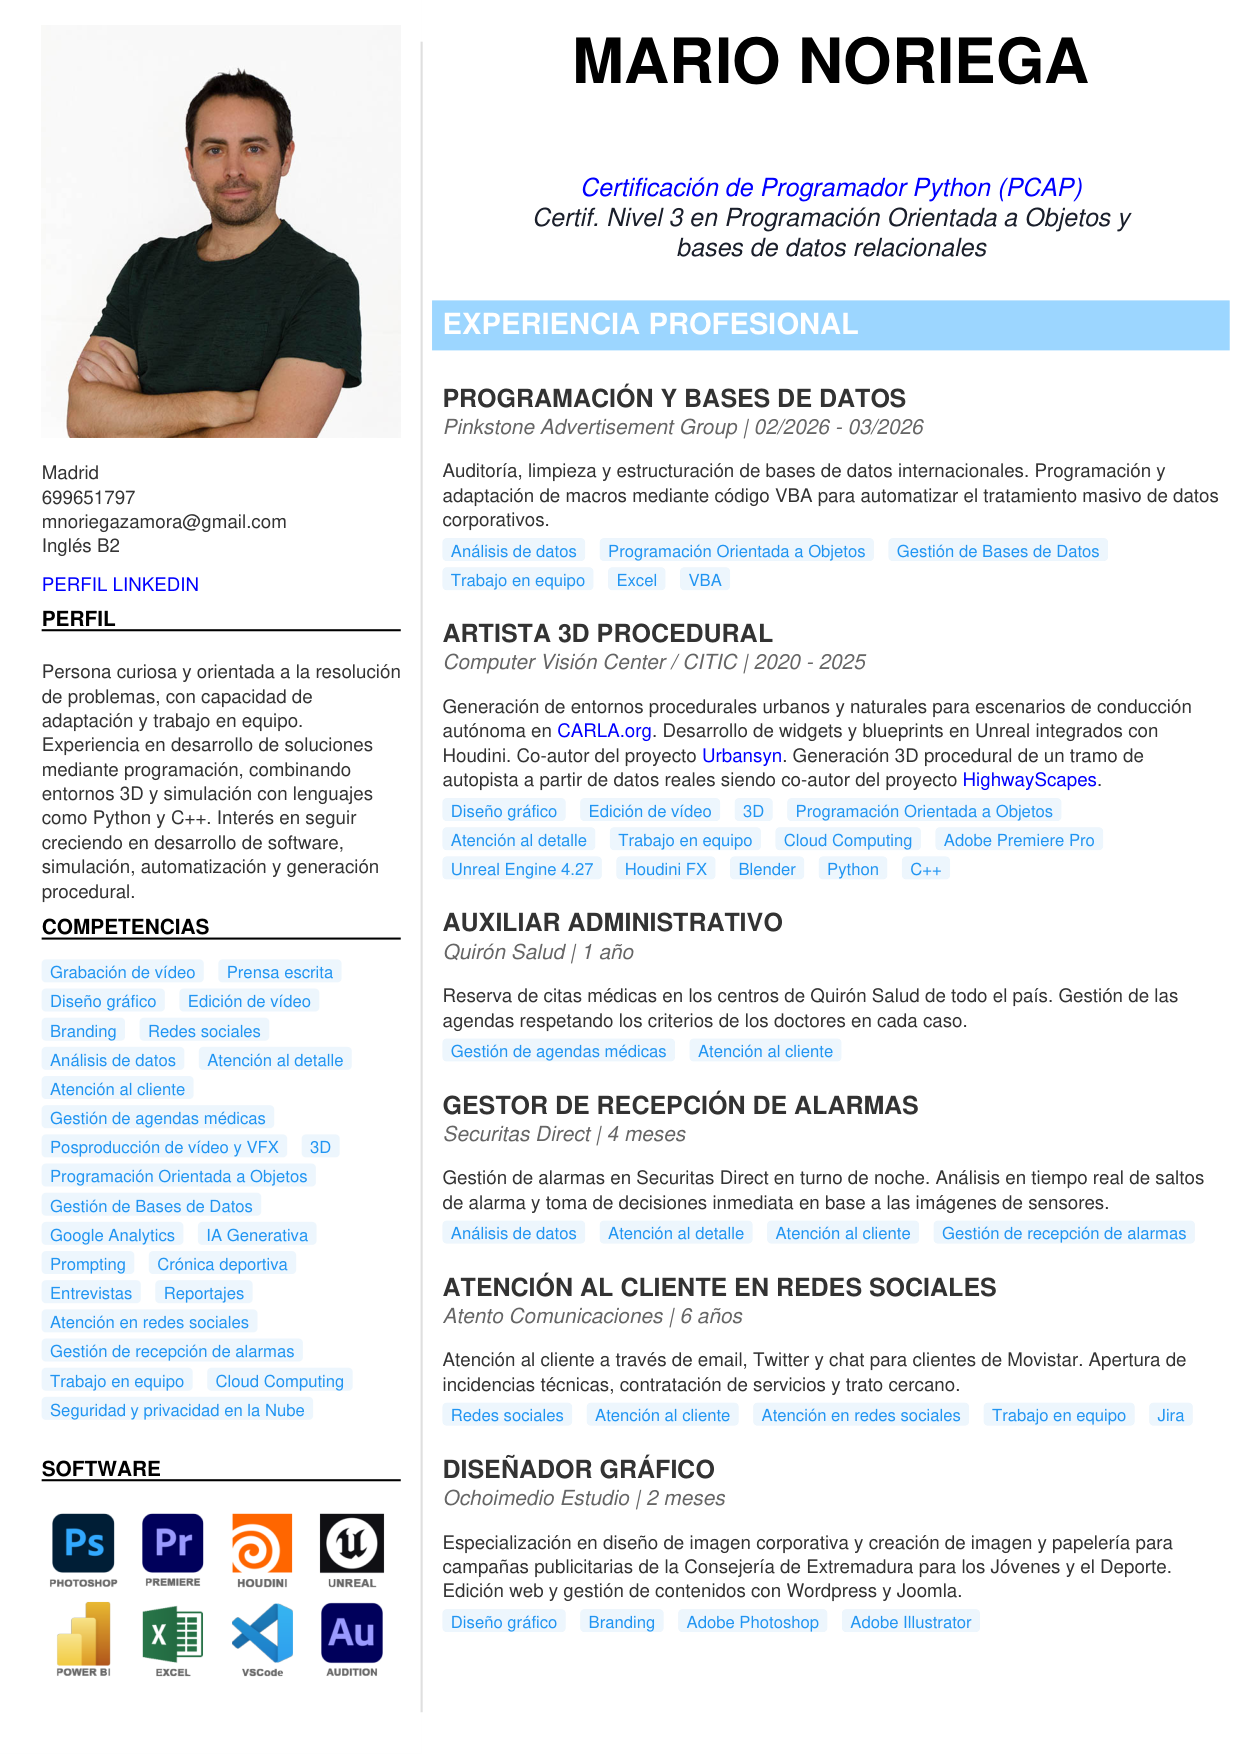
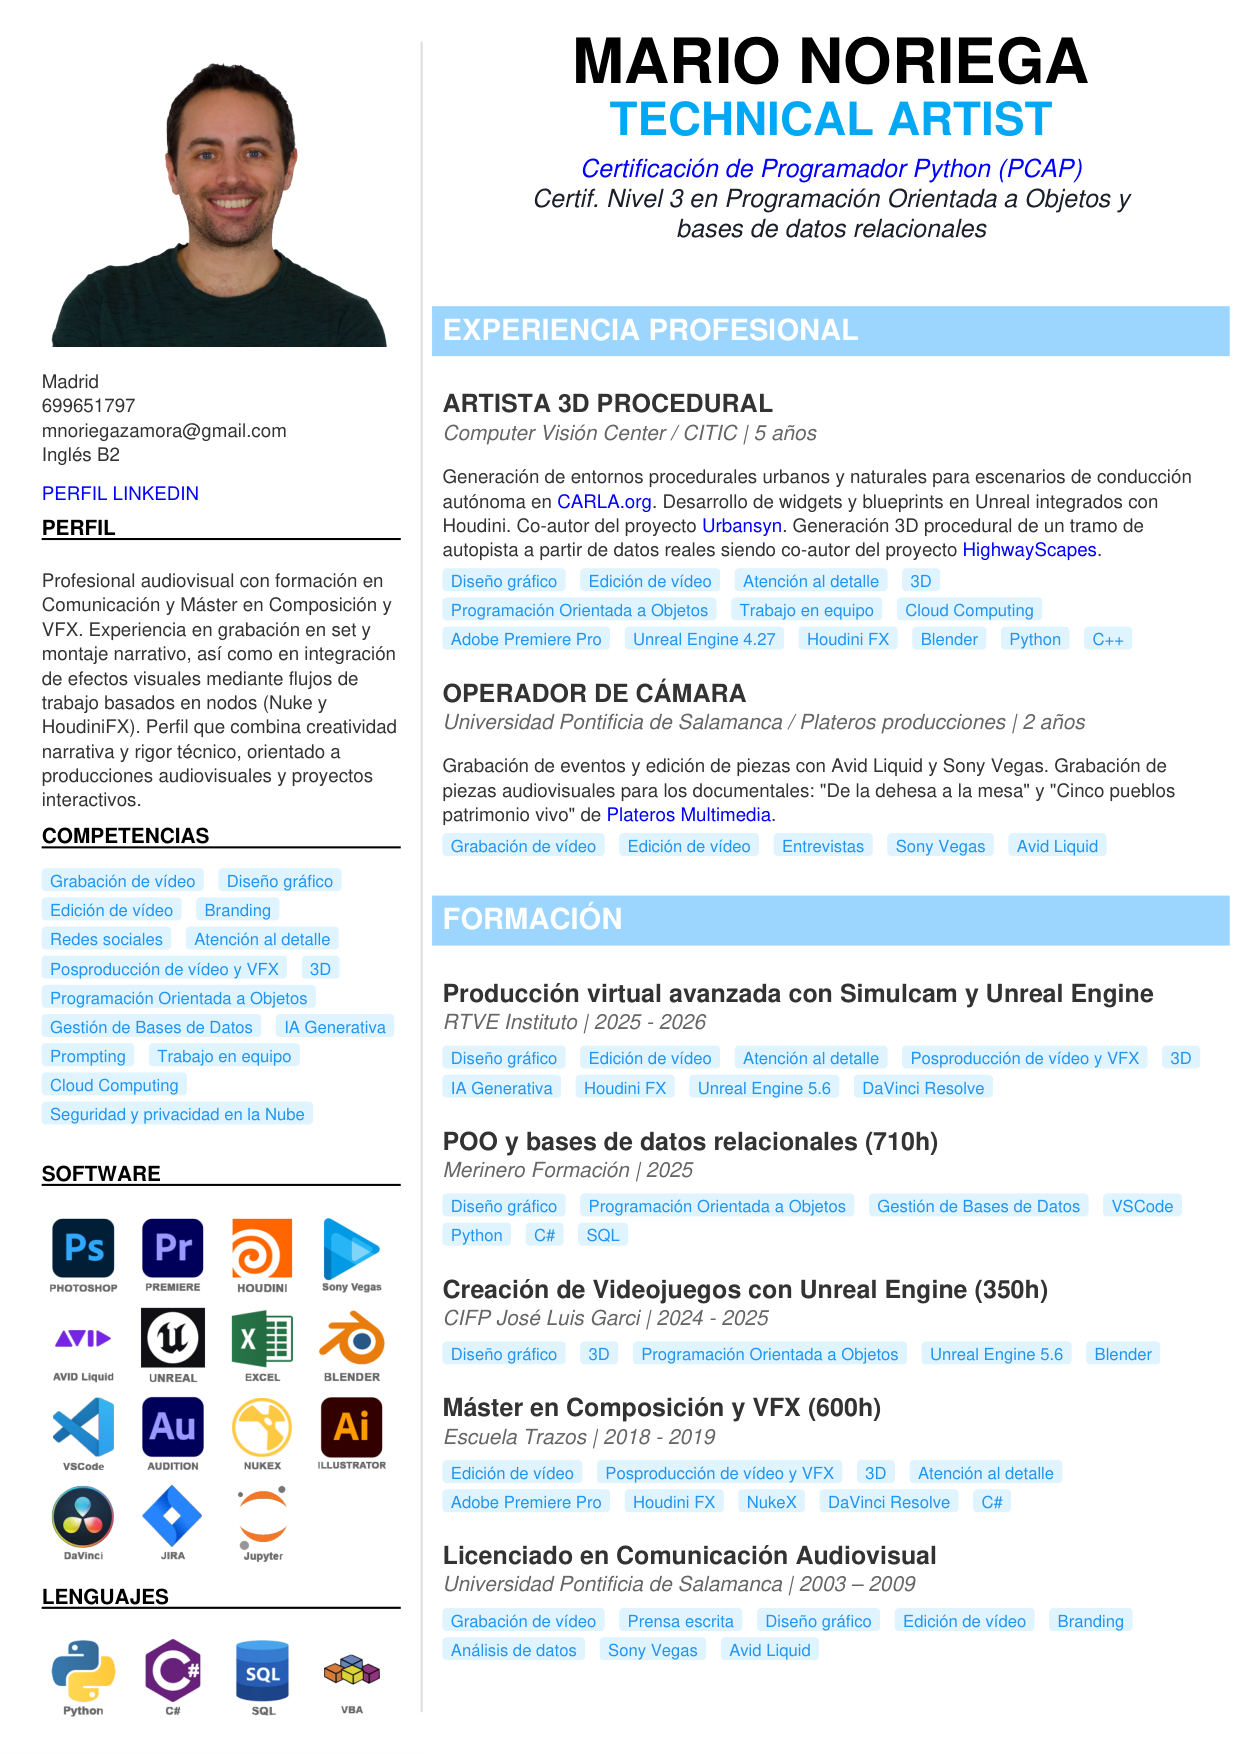
Fix bug
La ventana del explorador se abra ahora en primer plano

Changed region(s): [[0.0306, 0.0308, 1.0, 0.9852]]

diff --git a/controller/flet_controller.py b/controller/flet_controller.py
@@ -259,7 +259,9 @@ class FletController:
         from tkinter import filedialog
         root = tk.Tk()
         root.withdraw()
+        root.attributes('-topmost', True)
         path = filedialog.askopenfilename(
+            parent=root,
             title="Open Template",
             filetypes=[("JSON Files", "*.json")]
         )
@@ -277,7 +279,9 @@ class FletController:
         from tkinter import filedialog
         root = tk.Tk()
         root.withdraw()
+        root.attributes('-topmost', True)
         path = filedialog.asksaveasfilename(
+            parent=root,
             title="Save Template",
             defaultextension=".json",
             filetypes=[("JSON Files", "*.json")],
@@ -296,7 +300,9 @@ class FletController:
         from tkinter import filedialog
         root = tk.Tk()
         root.withdraw()
+        root.attributes('-topmost', True)
         path = filedialog.asksaveasfilename(
+            parent=root,
             title="Export to PDF",
             defaultextension=".pdf",
             filetypes=[("PDF Files", "*.pdf")],
